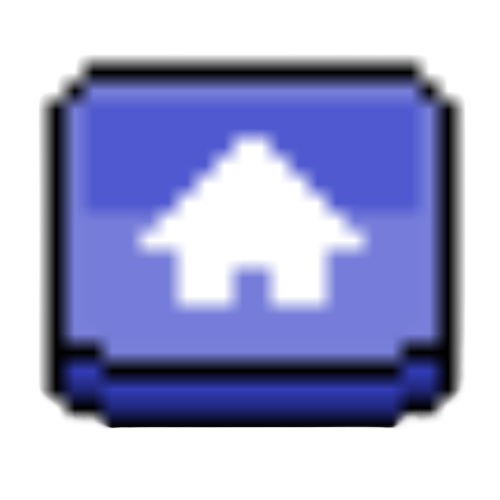
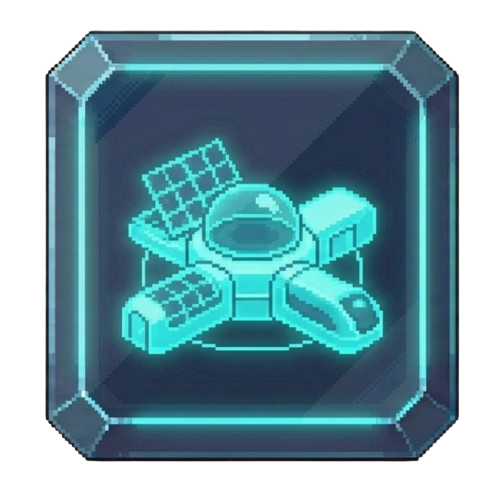
Arreglos de assets

diff --git a/main.py b/main.py
@@ -13,7 +13,7 @@ pygame.display.set_caption("Space Wars") #Se muestra el nombre del juego
 
 #Configuración de fuentes y fondo
 font = pygame.font.Font("assets/fonts/Silkscreen-Bold.ttf", 35) #Fuente
-back = pygame.transform.scale(pygame.image.load("assets/background3.jpeg"), (width, height)) #Fondo
+back = pygame.transform.scale(pygame.image.load("assets/background5.jpeg"), (width, height)) #Fondo
 icon = pygame.image.load("assets/extras/asteroid.png") #Ícono del juego
 pygame.display.set_icon(icon) #Se muestra el ícono
 
